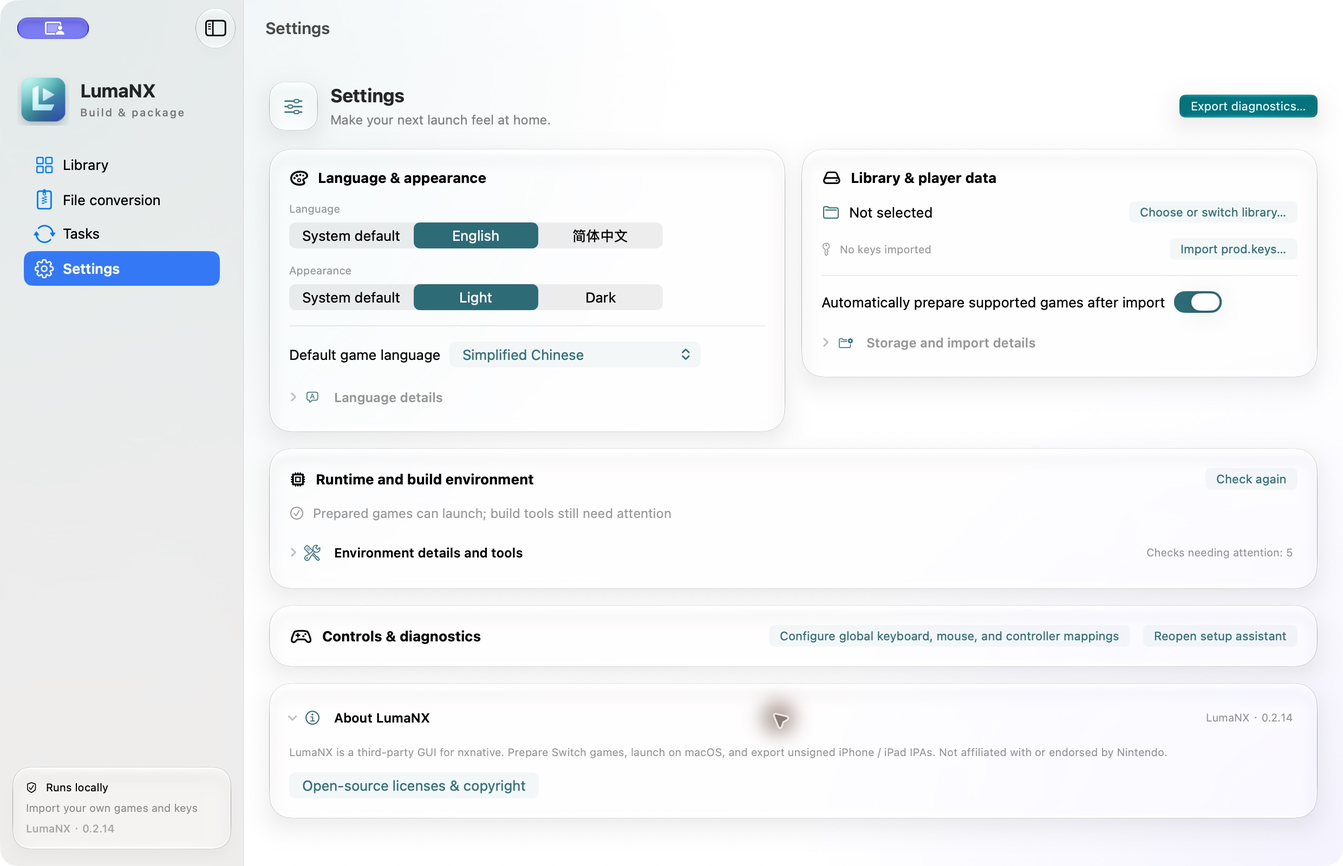
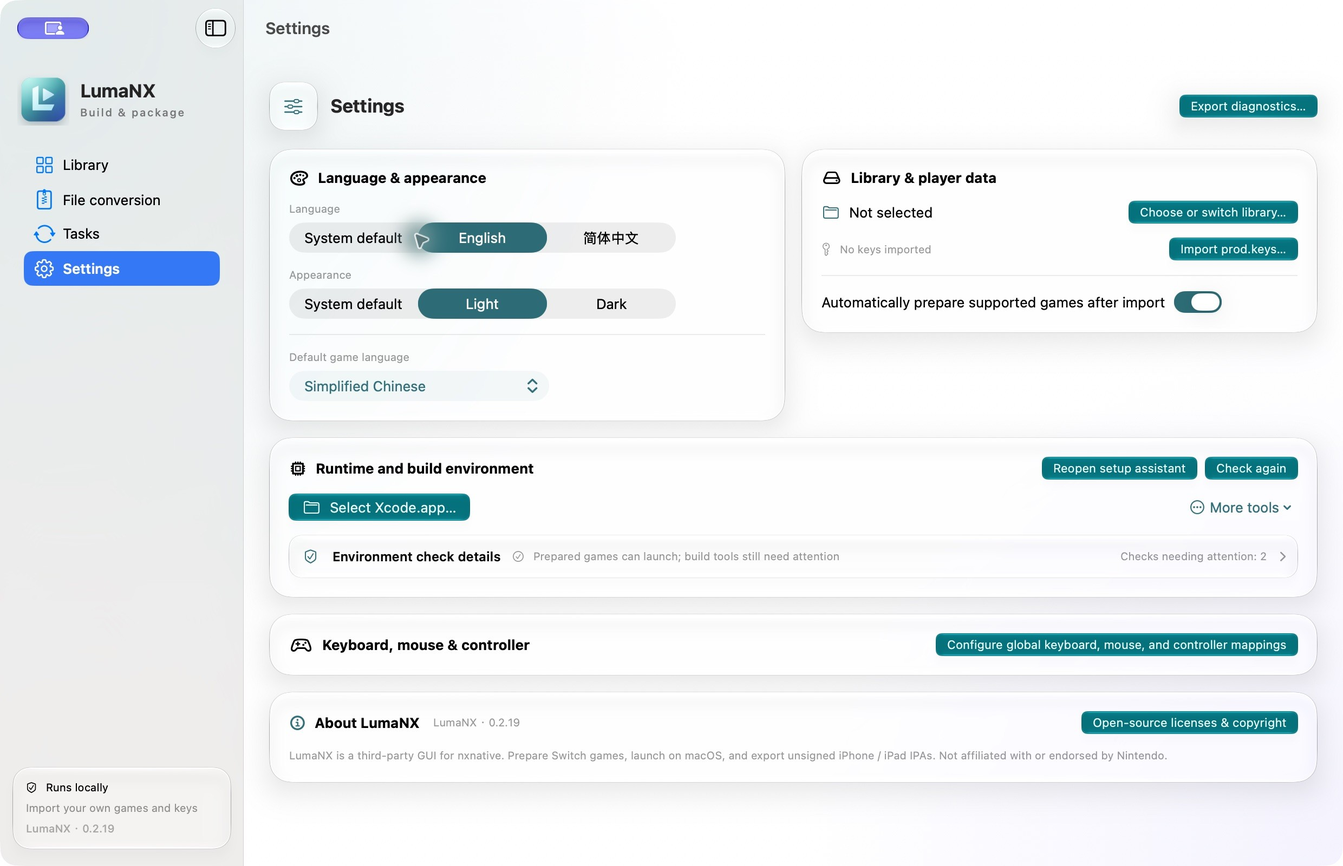
docs: rewrite READMEs and refresh interface screenshots

diff --git a/Sources/LumaNX/MilestoneProgressView.swift b/Sources/LumaNX/MilestoneProgressView.swift
@@ -1,5 +1,3 @@
-// Milestone view/estimation adapted from jhaizhou-ops/S2Arm at 601b5454.
-// See docs/Third-party-licenses.md for source attribution.
 import SwiftUI
 
 struct Milestone: Codable, Identifiable, Equatable {
@@ -16,7 +14,7 @@ struct Milestone: Codable, Identifiable, Equatable {
     }
 }
 
-/// S2Arm's per-step speed projection and calibration from completed steps.
+/// Projects remaining time using measured counters and completed-step calibration.
 /// Elapsed-time fill is an estimate; the displayed percentage always uses counters.
 struct MilestoneEstimate {
     let plan:[Milestone]

diff --git a/Worker/milestones.py b/Worker/milestones.py
@@ -1,8 +1,6 @@
-"""Game milestone plans/history adapted from S2Arm pack/jobs/milestones.py.
+"""Plans actual engine stages and learns estimates from successful local runs.
 
-Source: jhaizhou-ops/S2Arm at 601b5454 (2026-10-24). LumaNX's nxnative
-stages differ; only stages it actually executes are planned. Shader counters
-continue to count nxnative's completed reflection/Metal-library pairs.
+Shader counters track completed reflection/Metal-library pairs.
 """
 from __future__ import annotations
 import hashlib
@@ -12,8 +10,8 @@ import statistics
 import time
 from core import atomic, read
 
-# Initial weights are reference estimates adapted from S2Arm, not LumaNX
-# benchmarks. Successful uncached runs replace them with local medians.
+# Initial weights are reference estimates, not LumaNX benchmarks.
+# Successful uncached runs replace them with local medians.
 REFERENCE_GB = 5.4
 STEPS = {
     'verify': ('校验游戏文件', '确认源文件与已登记的内容一致。', 20, True),

diff --git a/README.md b/README.md
@@ -1,78 +1,80 @@
 <p align="center">
-  <img src="Assets/LumaNX.png" width="128" alt="LumaNX icon">
+  <img src="Assets/LumaNX.png" width="112" alt="LumaNX icon">
 </p>
 <h1 align="center">LumaNX · 璃游</h1>
-<p align="center">Graphical Switch game builds &amp; packaging · macOS / iOS / iPadOS</p>
+<p align="center">A native Mac workspace for building and packaging Switch games.</p>
 <p align="center"><strong>English</strong> · <a href="README.zh-CN.md">简体中文</a></p>
-<p align="center">Apple Silicon · macOS 26+ · SwiftUI / Liquid Glass</p>
-<p align="center"><a href="https://github.com/Xc1Ym/LumaNX/releases/latest">Download for Mac</a> · <a href="https://github.com/Xc1Ym/LumaNX/actions/workflows/ci.yml">Build status</a></p>
+<p align="center">
+  <a href="https://github.com/Xc1Ym/LumaNX/releases/latest">Download DMG</a> ·
+  <a href="docs/Getting-started.md">User guide</a> ·
+  <a href="docs/Development.md">Build from source</a> ·
+  <a href="https://github.com/Xc1Ym/LumaNX/issues">Report an issue</a>
+</p>
 
-LumaNX is a graphical Switch game builder and packager running on Apple Silicon Macs, and a third-party GUI for nxnative. With the bundled **[nxnative](https://github.com/seedds/nxnative) engine**, your authorized NSP/XCI files and `prod.keys`, import games, prepare and launch them on Mac, or export an unsigned iPhone / iPad IPA.
+LumaNX is a third-party graphical frontend for **[nxnative](https://github.com/seedds/nxnative)** on Apple Silicon Macs. Import your game files, prepare a Mac runtime, launch from your library, or export an unsigned IPA for iPhone and iPad. nxnative provides native execution and Metal graphics; LumaNX brings the workflow into a SwiftUI interface.
 
-nxnative provides native execution and Metal graphics; LumaNX provides the library and graphical workflow. The engine is included; games, updates, DLC, firmware, keys, game artwork and player caches are not.
+<img src="docs/screenshots/library-en.jpg" width="1000" alt="LumaNX 0.2.19 game library in light appearance">
 
-nxnative is synchronized from upstream **daily**, with automated tests before repository updates. To use the latest synchronized engine, [build the App or DMG yourself](docs/Development.md). **Releases provide only the DMG, on demand**, not daily.
+## From files to a ready library
 
-Switch Pro, Xbox and PlayStation controllers use native GameController input: Switch A / Xbox A / PS cross → game A, with no manual key mapping. Prepare existing games again to apply the new engine.
+| Workspace | What you can do |
+| --- | --- |
+| **Game library** | Add NSP/XCI/NSZ/XCZ files or scan folders; manage base games, updates and DLC. Compressed files are decompressed before import. |
+| **Game preparation** | Prepare code, shaders and runtime files with validated caches. Follow stage progress, counters and reference time estimates; cancel or retry tasks. |
+| **Mac and mobile** | Launch prepared games on Mac, or generate an unsigned iPhone / iPad IPA from game details. |
+| **File conversion** | Convert NSP/XCI, compress or decompress NSZ/XCZ, and merge packages using bundled conversion tools. |
+| **Save recovery** | Back up and verify saves, restore a backup, or switch prepared runtime versions with an automatic save backup. |
+| **Preferences** | Choose English or Simplified Chinese, light or dark appearance, and game language. Configure input where supported by the engine. |
 
-**Previously LumaDock.** The project is now named LumaNX. The original icon, application identifier, game library and settings are retained.
-
-## Features
-
-- **Compact utility pages** — Liquid Glass cards for setup, settings, conversion, tasks, input mapping and save recovery, with grouped environment tools.
-- **Library management** — Add NSP/XCI/NSZ/XCZ files or scan a folder; import NSP/XCI directly, decompress NSZ/XCZ, then prepare automatically.
-- **Automated builds** — Prepare code, shaders and runtime files with validated caches, cancellation and retry.
-- **Save protection and version rollback** — Create and verify save backups, restore saves, and switch between prepared runtime versions with an automatic save backup before switching.
-- **File conversion** — Convert NSP/XCI, compress or decompress NSZ/XCZ, and merge packages using bundled conversion tools adapted from [SAK-Mac](https://github.com/ggaoph-lab/SAK-Mac). Exported NSPs can be imported into the library.
-- **IPA export** — Generate an unsigned iPhone / iPad package from game details.
-- **Visible progress and errors** — Follow measured progress, milestone steps and reference time estimates; get shader warnings, repair suggestions, specific logs and redacted error summaries.
-- **Native Mac experience** — English / 简体中文, light / dark appearance, game-language settings and input mapping where supported by the selected engine.
+Switch Pro, Xbox and PlayStation controllers connect through Apple's GameController framework. The native button policy maps Switch A / Xbox A / PlayStation cross to game A. Re-prepare existing games after an engine update to apply runtime changes.
 
 ## Get started
 
-**Requirements:** Apple Silicon and macOS 26+. Preparing games also requires full Xcode with Metal. nxnative, the reader, shader translator and runtime dependencies are included in packaged apps.
+**You need an Apple Silicon Mac running macOS 26 or later.** Game preparation requires full Xcode and its Metal components. The packaged app includes nxnative, the metadata reader, shader translator and runtime dependencies.
 
-1. Download the latest **ARM64 DMG**, verify its SHA-256 against the Release notes, and drag **LumaNX.app** into Applications. Current builds use **ad-hoc signing and are not notarized**.
-2. Follow setup: check the environment and choose **Prepare engine tools**; no separate engine download is needed.
-3. Choose a library, import your own `prod.keys`, then add the base game, updates and DLC as NSP, XCI, NSZ or XCZ files.
-4. Prepare the game and choose **Launch game**, or choose **Generate IPA…** in game details. Tasks show progress and support cancellation and retry.
+1. Download the ARM64 DMG from [Releases](https://github.com/Xc1Ym/LumaNX/releases/latest), check its SHA-256 against the release notes, and drag **LumaNX.app** into Applications. Packages currently use ad-hoc signing and are not notarized.
+2. Open LumaNX. Use the setup assistant to check your environment and **prepare engine tools**.
+3. Choose a game library and import your own `prod.keys`. Add game files, updates and DLC that you are authorized to use.
+4. Prepare a game, then choose **Launch game**. For mobile, choose **Generate IPA…** in game details.
 
-IPA export additionally requires Xcode's **iOS platform** and **XcodeGen** (`brew install xcodegen`). Sign the exported IPA with your installation tool before installing it.
+IPA export also needs Xcode's **iOS platform** and **XcodeGen** (`brew install xcodegen`). Sign the exported IPA with your installation tool before installing it.
 
-Compatibility depends on the selected engine and game version. Successful preparation does not guarantee full gameplay compatibility; iOS device compatibility has not been validated. **Back up saves before upgrades or experiments.**
+Compatibility varies by game, version and engine. Preparation success does not establish full gameplay compatibility; iOS device compatibility has not been validated. Back up saves before upgrading or experimenting.
 
-## Screenshots
+## Interface
 
-LumaNX 0.2.15 in light appearance with an empty test library; no player data or game content.
-
-<img src="docs/screenshots/library-en.jpg" width="1000" alt="LumaNX game library">
+Captured on **2026-10-30** from a **0.2.19 UI preview build**, in light appearance with an isolated, empty data directory. No games, keys or player data are shown. The setup assistant illustrates components needing attention in this preview.
 
 <details>
-<summary>Setup and Settings</summary>
+<summary>Setup assistant and preferences</summary>
 
 <img src="docs/screenshots/setup-en.jpg" width="1000" alt="LumaNX setup assistant">
-<img src="docs/screenshots/settings-en.jpg" width="1000" alt="LumaNX settings">
+<img src="docs/screenshots/settings-en.jpg" width="1000" alt="LumaNX preferences">
 
 </details>
 
-## Documentation and help
+## Documentation
 
 | Guide | Contents |
 | --- | --- |
-| [Getting started](docs/Getting-started.md) | Setup, IPA export, input, language and data management |
-| [Environment and repair](docs/Environment.md) | Dependencies, installation and toolchain troubleshooting |
-| [Development](docs/Development.md) | Tests, local builds and CI releases |
-| [Release notes](docs/RELEASE_NOTES.md) | Latest changes in English and Chinese |
-| [Architecture](docs/架构说明.md) · [Engine interface](docs/引擎修改.md) · [Validation record](docs/验收记录.md) | Technical details and bounded test evidence (Chinese) |
+| [Getting started](docs/Getting-started.md) | Setup, IPA export, controllers, language and data management |
+| [Environment and repair](docs/Environment.md) | Dependencies and toolchain troubleshooting |
+| [Development](docs/Development.md) | Tests, local App / DMG builds and CI |
+| [Release notes](docs/RELEASE_NOTES.md) | Changes in English and Chinese |
+| [Architecture](docs/架构说明.md) · [Engine interface](docs/引擎修改.md) · [Validation record](docs/验收记录.md) | Implementation and recorded validation scope (Chinese) |
 
-For failures, open the task's log or copy its redacted error summary. [Report an issue](https://github.com/Xc1Ym/LumaNX/issues) with the app, chip, macOS and Xcode versions plus reproduction steps. Review diagnostics before sharing; never upload games, keys, firmware, saves or private caches.
+For a failure, open the task log or copy its redacted error summary. Include the app, chip, macOS and Xcode versions, plus reproduction steps, in your [issue](https://github.com/Xc1Ym/LumaNX/issues). Review diagnostics before sharing and exclude games, keys, firmware, saves and private caches.
 
-## Acknowledgements and license
+## Development and engine updates
 
-Special thanks to **[nxnative](https://github.com/seedds/nxnative)** for the core execution and graphics capabilities, and to **[MacNativeGames](https://github.com/ly05010419/MacNativeGames)** and **[d2r-mobile](https://github.com/jhaizhou-ops/d2r-mobile)** for their upstream contributions. File conversion adapts code from **[SAK-Mac](https://github.com/ggaoph-lab/SAK-Mac)** (MIT). The pinned engine and its license are included. Thanks also to Ryujinx / Spv.Generator, LibHac, SPIRV-Cross, CPython, .NET and other dependencies; see the [full third-party notices](docs/Third-party-licenses.md).
+The launcher uses SwiftUI / AppKit and a Python Worker. The pinned nxnative source lives in `Engine/nxnative`; the [development guide](docs/Development.md) covers dependencies, automated tests and packaging.
 
-Launcher code and original artwork use the **[MIT License](LICENSE)**; third-party components retain their own licenses. The software is provided “AS IS.” Use only content you are authorized to use. Nintendo and game trademarks belong to their respective owners; this project is not affiliated with or endorsed by Nintendo or any game publisher.
+The daily upstream-sync workflow validates engine updates before publishing them to this repository. Releases provide a DMG on demand. To use a newer synchronized engine before the next release, build the App or DMG from source.
 
-## Topics
+LumaNX was previously called **LumaDock**. The original icon, application identifier, library and settings remain compatible with existing installations.
 
-`nintendo-switch` · `nxnative` · `gui` · `macos` · `ios` · `ipados` · `apple-silicon` · `swiftui` · `metal` · `game-launcher` · `game-packaging` · `native-execution`
+## Credits and license
+
+Thanks to **[nxnative](https://github.com/seedds/nxnative)** for execution and graphics, and to **[MacNativeGames](https://github.com/ly05010419/MacNativeGames)** and **[d2r-mobile](https://github.com/jhaizhou-ops/d2r-mobile)** for upstream contributions. Conversion tools adapt **[SAK-Mac](https://github.com/ggaoph-lab/SAK-Mac)**. See [third-party notices](docs/Third-party-licenses.md) for these components and dependencies including Ryujinx / Spv.Generator, LibHac, SPIRV-Cross, CPython and .NET.
+
+Launcher code and original artwork use the **[MIT License](LICENSE)**. Third-party components retain their own licenses. Games, updates, DLC, firmware, keys, game artwork and player caches are not included. Use only content you are authorized to use. Nintendo and game trademarks belong to their owners; LumaNX is not affiliated with or endorsed by Nintendo or game publishers.

diff --git a/README.zh-CN.md b/README.zh-CN.md
@@ -1,78 +1,80 @@
 <p align="center">
-  <img src="Assets/LumaNX.png" width="128" alt="璃游图标">
+  <img src="Assets/LumaNX.png" width="112" alt="璃游图标">
 </p>
 <h1 align="center">璃游 · LumaNX</h1>
-<p align="center">Switch 游戏图形化构建与打包 · macOS / iOS / iPadOS</p>
+<p align="center">在 Mac 上，图形化构建与打包 Switch 游戏。</p>
 <p align="center"><a href="README.md">English</a> · <strong>简体中文</strong></p>
-<p align="center">Apple Silicon · macOS 26+ · SwiftUI / Liquid Glass</p>
-<p align="center"><a href="https://github.com/Xc1Ym/LumaNX/releases/latest">下载 Mac 版</a> · <a href="https://github.com/Xc1Ym/LumaNX/actions/workflows/ci.yml">构建状态</a></p>
+<p align="center">
+  <a href="https://github.com/Xc1Ym/LumaNX/releases/latest">下载 DMG</a> ·
+  <a href="docs/使用说明.md">使用指南</a> ·
+  <a href="docs/开发说明.md">源码构建</a> ·
+  <a href="https://github.com/Xc1Ym/LumaNX/issues">反馈问题</a>
+</p>
 
-璃游 LumaNX 是运行于 Apple Silicon Mac 的 Switch 游戏图形化构建与打包工具，也是 nxnative 的第三方 GUI。使用内置的 **[nxnative 引擎](https://github.com/seedds/nxnative)**、自备且有权使用的 NSP/XCI 文件和 `prod.keys`，即可在图形界面中导入、准备并启动游戏，或导出未签名的 iPhone / iPad IPA。
+璃游 LumaNX 是面向 Apple Silicon Mac 的 **[nxnative](https://github.com/seedds/nxnative) 第三方图形界面**。导入游戏文件，准备 Mac 运行版本，从游戏库启动，或导出未签名的 iPhone / iPad IPA。nxnative 提供原生执行与 Metal 图形能力，璃游用 SwiftUI 将这些操作集中到一个工作空间。
 
-nxnative 提供原生执行和 Metal 图形能力，璃游负责游戏库与图形化操作流程。引擎随应用提供；项目不附带游戏、更新、DLC、固件、密钥、游戏封面及玩家缓存。
+<img src="docs/screenshots/library-zh.jpg" width="1000" alt="璃游 0.2.19 浅色外观游戏库">
 
-nxnative **每天同步上游**，通过自动化测试后更新本仓库。想使用最新同步的引擎，请[自行编译 App 或 DMG](docs/开发说明.md)。**Release 仅按需提供 DMG，不每日发布。**
+## 从游戏文件到运行版本
 
-Switch Pro、Xbox、PlayStation 手柄通过原生 GameController 自动接入：Switch A / Xbox A / PS 叉键 → 游戏 A，无需手动映射。已有游戏需重新准备一次才能应用新版引擎。
+| 工作空间 | 可以做什么 |
+| --- | --- |
+| **游戏库** | 添加 NSP/XCI/NSZ/XCZ 或扫描文件夹，管理本体、更新与 DLC；压缩文件先解压再导入。 |
+| **游戏准备** | 准备代码、着色器与运行文件，校验和复用缓存；查看阶段进度、实际计数与参考估时，取消或重试任务。 |
+| **Mac 与移动设备** | 在 Mac 上启动已准备的游戏，或在详情中生成未签名的 iPhone / iPad IPA。 |
+| **文件转换** | 使用内置转换工具转换 NSP/XCI、压缩或解压 NSZ/XCZ、合并文件。 |
+| **存档恢复** | 备份并校验存档、从备份恢复；切换已准备的运行版本前自动备份存档。 |
+| **偏好设置** | 选择中英文、浅色或深色外观、游戏语言，并使用引擎支持的输入配置。 |
 
-**原名 LumaDock，现更名为 LumaNX。** 保留原有图标、应用标识、游戏库和设置。
+Switch Pro、Xbox、PlayStation 手柄通过 Apple GameController 框架接入。原生按键策略将 Switch A / Xbox A / PlayStation 叉键映射为游戏 A。更新引擎后，重新准备已有游戏即可应用运行时变更。
 
-## 主要功能
+## 开始使用
 
-- **紧凑辅助页面** — 向导、设置、转换、任务、输入映射与存档恢复采用液态玻璃卡片，环境工具集中管理。
-- **游戏库管理** — 添加 NSP/XCI/NSZ/XCZ 或扫描文件夹，NSP/XCI 直接导入，压缩格式自动解压，再准备游戏。
-- **自动构建** — 完成代码、着色器和运行文件准备，支持缓存校验、取消和重试。
-- **存档保护与版本回滚** — 手动备份、校验恢复，切换运行版本前自动备份存档，支持选择历史运行版本。
-- **文件转换** — 内置参考 [SAK-Mac](https://github.com/ggaoph-lab/SAK-Mac) 的转换工具，转换 NSP/XCI、压缩解压 NSZ/XCZ、合并文件；生成的 NSP 可导入游戏库。
-- **IPA 导出** — 在游戏详情中生成未签名的 iPhone / iPad 安装包。
-- **进度与错误提示** — 显示实际进度、分阶段步骤与参考估时，提供着色器警告、修复建议、对应日志与脱敏错误摘要。
-- **原生 Mac 体验** — 中英双语、浅色 / 深色外观、游戏语言设置，以及所选引擎支持的输入映射。
+**需要 Apple Silicon Mac 与 macOS 26 或更新版本。** 准备游戏还需完整 Xcode 及 Metal 组件。安装包内置 nxnative、元数据读取器、着色器翻译器与运行依赖。
 
-## 快速开始
+1. 从 [Releases](https://github.com/Xc1Ym/LumaNX/releases/latest) 下载 ARM64 DMG，核对发布说明中的 SHA-256，将 **LumaNX.app** 拖入“应用程序”。当前安装包采用 ad-hoc 签名，尚未公证。
+2. 打开璃游，按首次设置向导检查环境，并**准备引擎工具**。
+3. 选择游戏库，导入自己的 `prod.keys`，添加有权使用的游戏本体、更新与 DLC。
+4. 准备完成后点击**启动游戏**；移动设备请选择游戏详情中的**生成 IPA…**。
 
-**环境要求：** Apple Silicon、macOS 26+。准备游戏还需完整 Xcode 及 Metal 组件。nxnative、读取器、着色器翻译器及运行依赖均随安装包提供。
+IPA 导出还需 Xcode 的 **iOS 平台**与 **XcodeGen**（`brew install xcodegen`）。导出后使用自己的安装工具签名，再安装到设备。
 
-1. 下载最新版 **ARM64 DMG**，核对 Release 说明中的 SHA-256，将 **LumaNX.app** 拖入“应用程序”。当前版本采用 **ad-hoc 签名，尚未公证**。
-2. 按向导检查环境，点击“准备引擎工具”，无需单独下载引擎。
-3. 选择游戏库，导入自己的 `prod.keys`，再添加本体、更新和 DLC 的 NSP、XCI、NSZ 或 XCZ 文件。
-4. 准备完成后点击“启动游戏”，或在详情中点击“生成 IPA…”。任务页显示进度，支持取消和重试。
-
-IPA 导出额外需要 Xcode 的 **iOS 平台**和 **XcodeGen**（`brew install xcodegen`）。导出后需使用自己的安装工具签名，再安装到设备。
-
-兼容性取决于所选引擎和游戏版本；准备成功不保证完整可玩，iOS 真机兼容性尚未验收。**升级或试验性运行前，请备份存档。**
+兼容性随游戏、版本和引擎而变化。准备成功不代表完整可玩，iOS 真机兼容性尚未验收。升级或试验性运行前，请备份存档。
 
 ## 界面预览
 
-LumaNX 0.2.15 浅色外观与空白测试游戏库，不含玩家数据或游戏内容。
-
-<img src="docs/screenshots/library-zh.jpg" width="1000" alt="璃游游戏库">
+截图拍摄于 **2026-10-30**，取自 **0.2.19 界面预览构建**，使用浅色外观与独立空白数据目录，不含游戏、密钥或玩家数据。首次设置展示了此预览构建中组件尚待修复的状态。
 
 <details>
-<summary>首次设置与设置页面</summary>
+<summary>首次设置与偏好设置</summary>
 
-<img src="docs/screenshots/setup-zh.jpg" width="1000" alt="璃游首次运行向导">
-<img src="docs/screenshots/settings-zh.jpg" width="1000" alt="璃游设置">
+<img src="docs/screenshots/setup-zh.jpg" width="1000" alt="璃游首次设置向导">
+<img src="docs/screenshots/settings-zh.jpg" width="1000" alt="璃游偏好设置">
 
 </details>
 
-## 文档与帮助
+## 文档
 
-| 文档 | 内容 |
+| 指南 | 内容 |
 | --- | --- |
-| [使用说明](docs/使用说明.md) | 首次设置、IPA 导出、输入、语言与数据管理 |
-| [环境要求与修复](docs/环境要求.md) | 依赖、安装步骤与工具链排错 |
-| [开发说明](docs/开发说明.md) | 测试、本地构建与 CI 发布 |
-| [更新说明](docs/RELEASE_NOTES.md) | 最新版本的中英文变更 |
-| [架构说明](docs/架构说明.md) · [引擎接口](docs/引擎修改.md) · [验收记录](docs/验收记录.md) | 技术细节与具体验证范围 |
+| [使用说明](docs/使用说明.md) | 首次设置、IPA 导出、手柄、语言与数据管理 |
+| [环境要求与修复](docs/环境要求.md) | 依赖安装与工具链排错 |
+| [开发说明](docs/开发说明.md) | 测试、本地 App / DMG 构建与 CI |
+| [更新说明](docs/RELEASE_NOTES.md) | 中英文版本变更 |
+| [架构说明](docs/架构说明.md) · [引擎接口](docs/引擎修改.md) · [验收记录](docs/验收记录.md) | 实现细节与已记录的验证范围 |
 
-报错时可打开任务对应日志或复制脱敏错误摘要。[提交 Issue](https://github.com/Xc1Ym/LumaNX/issues) 时，请附应用、芯片、macOS 和 Xcode 版本及复现步骤。分享前检查诊断内容，不要上传游戏、密钥、固件、存档或私人缓存。
+报错时，打开任务日志或复制脱敏错误摘要。[提交 Issue](https://github.com/Xc1Ym/LumaNX/issues) 请附应用、芯片、macOS、Xcode 版本及复现步骤。分享前检查诊断内容，排除游戏、密钥、固件、存档与私人缓存。
+
+## 开发与引擎更新
+
+启动器由 SwiftUI / AppKit 与 Python Worker 组成，固定版本的 nxnative 源码位于 `Engine/nxnative`。[开发说明](docs/开发说明.md) 包含依赖、自动化测试与打包流程。
+
+每日上游同步工作流会先验证引擎更新，再发布到本仓库。Release 按需提供 DMG；如需在下次发布前使用较新的同步引擎，可从源码构建 App 或 DMG。
+
+璃游原名 **LumaDock**。原有图标、应用标识、游戏库与设置继续兼容已有安装。
 
 ## 致谢与许可
 
-特别感谢 **[nxnative](https://github.com/seedds/nxnative)** 提供核心执行与图形能力，以及 **[MacNativeGames](https://github.com/ly05010419/MacNativeGames)**、**[d2r-mobile](https://github.com/jhaizhou-ops/d2r-mobile)** 的上游贡献。文件转换参考 **[SAK-Mac](https://github.com/ggaoph-lab/SAK-Mac)**（MIT）的代码实现。内置引擎保留其来源、固定版本及许可证。同时感谢 Ryujinx / Spv.Generator、LibHac、SPIRV-Cross、CPython、.NET 等依赖项目，详见[完整第三方许可](docs/第三方许可.md)。
+感谢 **[nxnative](https://github.com/seedds/nxnative)** 提供执行与图形能力，感谢 **[MacNativeGames](https://github.com/ly05010419/MacNativeGames)** 与 **[d2r-mobile](https://github.com/jhaizhou-ops/d2r-mobile)** 的上游贡献。文件转换参考 **[SAK-Mac](https://github.com/ggaoph-lab/SAK-Mac)**。这些组件及 Ryujinx / Spv.Generator、LibHac、SPIRV-Cross、CPython、.NET 等依赖的许可见[第三方声明](docs/第三方许可.md)。
 
-启动器代码与原创图标采用 **[MIT License](LICENSE)**，第三方组件保留各自许可。软件按 “AS IS” 提供，仅使用有权使用的内容。Nintendo 及游戏商标归相应权利人所有；本项目与 Nintendo 或游戏发行商没有隶属或认可关系。
-
-## Topics
-
-`nintendo-switch` · `nxnative` · `gui` · `macos` · `ios` · `ipados` · `apple-silicon` · `swiftui` · `metal` · `game-launcher` · `game-packaging` · `native-execution`
+启动器代码与原创图标采用 **[MIT License](LICENSE)**，第三方组件保留各自许可。项目不附带游戏、更新、DLC、固件、密钥、游戏封面或玩家缓存。请仅使用有权使用的内容。Nintendo 及游戏商标归相应权利人所有；璃游与 Nintendo 或游戏发行商没有隶属或认可关系。

diff --git a/docs/验收记录.md b/docs/验收记录.md
@@ -21,12 +21,12 @@
 - 组合源码通过 **114 项 Python、57 项 Swift Release 测试**及远端完整 CI，包含 Metal 诊断、原创 UIKit IPA、应用和 DMG 构建、签名、源码包与运行时搬移校验。新增旧版头文件与里程碑组合回归，确保 Mac 缓存完成时 iOS 计数不会提前完成。
 - #9 附件仅证明 DLC 解包、着色器拆分及头文件路径异常；报告者手动复制后的 0% 进度尚不能证明编译正常。本次未重验真实游戏准备、游玩及 iOS 真机。新版 nxnative 的 NVN IPA 导出另有既存 C1 表 inputs 标记兼容问题，留作独立后续项。
 
-## S2Arm 游戏处理里程碑进度（未发布，2026-10-24）
+## 游戏处理里程碑进度（未发布，2026-10-24）
 
-- 从 S2Arm `601b5454` 的 `pack/jobs/milestones.py` 与 `MilestoneProgressView.swift` 迁入阶段计划、分段进度、步骤作用、耗时、中位数历史和估时校准；按 nxnative 实际流程接入游戏准备和 IPA，未迁入 S2Arm 引擎或其不同布局的着色器/管线阶段。原有着色器计数继续核对已完成的 reflection/Metal 库配对。保留来源及随附 MIT 声明。
+- 通过 `Worker/milestones.py` 与 `MilestoneProgressView.swift` 接入阶段计划、分段进度、步骤作用、耗时、中位数历史和估时校准；按 nxnative 实际流程接入游戏准备和 IPA，仅展示实际执行的着色器与管线阶段。原有着色器计数继续核对已完成的 reflection/Metal 库配对。
 - **104 项 Python、57 项 Swift Release 测试通过**。新增覆盖 Mac/iOS 与可选捕获计划、Worker 时间戳持久化、内部子步骤不误增阶段、历史按工具链/目标隔离、体积换算中位数、缓存命中排除、损坏/不可写统计不阻断、取消不训练成功历史、旧任务兼容、速度外推、未知总量、完成时剩余为零，以及窄进度条宽度约束。原有双路径 iOS 构建及 DLC 回归通过。IPA 着色器进度改读 iOS 产物，并验证 Mac 缓存已经完成、iOS 尚未完成时不得显示完成。
 - 独立应用使用原创游戏元数据、明确的假密钥和替代构建函数；真实生产 Context/里程碑模块发送事件。实际检查中文浅色的第 6/8 步、25/100 着色器、参考估时、全局底栏进度；取消后正确标记已取消，重试可完成。英文深色中未知总量只显示估计填充和说明，没有数字百分比，显示预计剩余时间与完成时刻。精简重复阶段文字，原任务错误/取消入口保留。
-- 初始估时是参考值，并非璃游实测性能；成功任务仅记录未命中缓存的阶段，最多 50 条，本机记录不参与引擎/游戏缓存身份。未使用玩家内容，未重新运行商业游戏准备、游玩或 iOS 真机测试，不能将此次进度显示验证扩大为兼容性结论。S2Arm 工作树只读参考。
+- 初始估时是参考值，并非璃游实测性能；成功任务仅记录未命中缓存的阶段，最多 50 条，本机记录不参与引擎/游戏缓存身份。未使用玩家内容，未重新运行商业游戏准备、游玩或 iOS 真机测试，不能将此次进度显示验证扩大为兼容性结论。
 
 ## 0.2.7 文件转换与 DLC 修复（2026-10-24）
 

diff --git a/docs/Third-party-licenses.md b/docs/Third-party-licenses.md
@@ -6,10 +6,6 @@ LumaNX's launcher and original icon use the MIT License, Copyright © 2026 LumaD
 
 Special thanks to [nxnative](https://github.com/seedds/nxnative) (MIT, Copyright © 2026 jhaizhou). The pinned source snapshot and shader translator are bundled in `Engine/nxnative`, together with upstream LICENSE and dependency notices. A LibHac metadata reader is compiled on the app builder and included under `Engine/reader`. `Engine/nxnative/manifest.json` records the upstream revision, hashes and local controller adaptation. Engine screenshots are excluded. The snapshot retains the licenses for Ryujinx / Spv.Generator, libvpx, stb_vorbis and Vulkan headers under `dm/third_party`. We also thank [d2r-mobile](https://github.com/jhaizhou-ops/d2r-mobile) and [MacNativeGames](https://github.com/ly05010419/MacNativeGames). LumaNX’s metadata bridge is in `Worker/NspMetadata.cs`.
 
-## S2Arm milestone progress
-
-Game-preparation and IPA milestone plans, step-time projection and local-history medians adapt [S2Arm](https://github.com/jhaizhou-ops/S2Arm) at `601b545407d45063d005b4e7ca7f078620f0d630`, specifically `pack/jobs/milestones.py` and `platforms/macos/Sources/S2ArmLauncher/MilestoneProgressView.swift`. The upstream [LumaDock copyright/MIT notice](licenses/S2Arm-progress-NOTICE.txt) is retained. The integration follows nxnative's actual stages and completed shader outputs; S2Arm's engine, shader pipeline and game-specific timing evidence are not bundled or presented as LumaNX validation.
-
 ## SAK-Mac conversion integration
 
 Conversion command orchestration and machine-readable / tqdm progress parsing are adapted from [SAK-Mac](https://github.com/ggaoph-lab/SAK-Mac), Copyright (c) 2026 ggaoph-lab, at commit `c8e0baa59a168d9efaa0b556af70e0a08bda51de`. The complete upstream [MIT notice](licenses/SAK-Mac-LICENSE.txt) is retained in source and bundled documentation.

diff --git a/docs/第三方许可.md b/docs/第三方许可.md
@@ -6,10 +6,6 @@
 
 特别感谢 [nxnative](https://github.com/seedds/nxnative)（MIT，Copyright © 2026 jhaizhou）。固定源码快照与着色器翻译器内置于 `Engine/nxnative`，保留上游 LICENSE 与依赖许可。LibHac 元数据读取器在构建应用时编译，随包位于 `Engine/reader`。`Engine/nxnative/manifest.json` 记录上游提交、哈希和本地手柄适配；排除引擎截图。Ryujinx / Spv.Generator、libvpx、stb_vorbis 和 Vulkan headers 的许可证保留于 `dm/third_party`。同时感谢 [d2r-mobile](https://github.com/jhaizhou-ops/d2r-mobile) 与 [MacNativeGames](https://github.com/ly05010419/MacNativeGames)。璃游元数据桥位于 `Worker/NspMetadata.cs`。
 
-## S2Arm 里程碑进度
-
-游戏准备与 IPA 的阶段计划、分阶段耗时推算、本机历史中位数参考 [S2Arm](https://github.com/jhaizhou-ops/S2Arm) 的 `601b545407d45063d005b4e7ca7f078620f0d630`，对应 `pack/jobs/milestones.py` 和 `platforms/macos/Sources/S2ArmLauncher/MilestoneProgressView.swift`。保留其随附的 [LumaDock 版权及 MIT 声明](licenses/S2Arm-progress-NOTICE.txt)。本次按 nxnative 的实际阶段和已完成着色器产物接入，不包含 S2Arm 引擎或着色器实现，也不将其特定游戏的计时证据视为璃游实测。
-
 ## SAK-Mac 转换整合
 
 转换命令调度、机器可读与 tqdm 进度解析参考 [SAK-Mac](https://github.com/ggaoph-lab/SAK-Mac) 的 `c8e0baa59a168d9efaa0b556af70e0a08bda51de`，Copyright (c) 2026 ggaoph-lab。完整上游 [MIT 许可](licenses/SAK-Mac-LICENSE.txt) 保留在源码及应用文档中。

diff --git a/docs/架构说明.md b/docs/架构说明.md
@@ -86,7 +86,7 @@ NVN：shader split 结果必须与固定 profile 数据行一致；Metal 库和 
 
 ## 游戏处理里程碑
 
-`Worker/milestones.py` 与 `MilestoneProgressView.swift` 参考 S2Arm 的阶段计划、预计秒数中位数和校准算法。按实际路径列出各次解包、DLC、代码重写、可选捕获、着色器提取/编译及 Mac 安装或 iOS 打包/校验/导出；不插入 nxnative 未执行的 S2Arm 管线预建等步骤。普通任务继续使用原进度条。
+`Worker/milestones.py` 与 `MilestoneProgressView.swift` 提供阶段计划、预计秒数中位数和校准算法。按实际路径列出各次解包、DLC、代码重写、可选捕获、着色器提取/编译及 Mac 安装或 iOS 打包/校验/导出；仅展示 nxnative 实际执行的步骤。普通任务继续使用原进度条。
 
 Worker `plan` 事件提供 `milestones`（id、label、purpose、expected、source、samples），后续事件携带当前 `milestone` 与 `milestoneCached`；阶段事件附 `milestoneStarted` 的墙钟起点，后端实测耗时采用单调时钟。任务记录保存这些字段，旧任务字段可缺省。`begin` 的阶段索引固定在当前里程碑，内部日志切换不递增总阶段。
 
